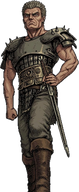
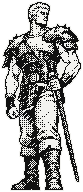
feat: sprites à l'encre de Gambino, Judeau et Pippin

diff --git a/docs/sprites-encre.md b/docs/sprites-encre.md
@@ -116,5 +116,5 @@ Rien dans l'appli ne retourne les images : un boss généré tourné vers la dro
    papier, puis ajoute le contour noir et le liseré papier (lisible sur la carte de nuit).
 4. Comparer avec les sprites déjà faits : mêmes proportions, même épaisseur de contour, même densité de trame.
 
-Faits : Casca et Griffith (21/10/2026), Bazuso (24/10/2026, pupilles ajoutées à la main après la mise au format). Le Guts généré servira aux planches de marche de la carte, qui demandent plusieurs
+Faits : Casca et Griffith (21/10/2026), Bazuso (24/10/2026, pupilles ajoutées à la main après la mise au format), Gambino, Judeau et Pippin (24/10/2026). Le Guts généré servira aux planches de marche de la carte, qui demandent plusieurs
 images (une par pas) : à faire à part.
